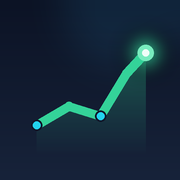
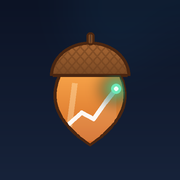
앱 아이콘 도토리+상승그래프 버전으로 리디자인
- 도토리 마스코트(크로스해치 깍정이·오렌지 그라디언트 견과·꼭지) 안에
  우상향 꺾은선 그래프 + 발광 상승 팁 결합
- 네이비 그라디언트 배경(풀블리드, maskable 대응)
- PNG 4종(512·192·180·32) PIL 생성 + icon.svg(라운드·도토리) 갱신
- 파비콘/매니페스트 캐시버스터 ?v=3, 쇼케이스 이미지 갱신

Changed region(s): [[0.1667, 0.1667, 0.9167, 0.8056]]

diff --git a/index.html b/index.html
@@ -10,10 +10,10 @@
     <meta name="apple-mobile-web-app-capable" content="yes">
     <meta name="apple-mobile-web-app-status-bar-style" content="black-translucent">
     <meta name="apple-mobile-web-app-title" content="UMT">
-    <link rel="manifest" href="manifest.webmanifest?v=2">
-    <link rel="apple-touch-icon" href="apple-touch-icon.png?v=2">
-    <link rel="icon" type="image/png" sizes="32x32" href="favicon-32.png?v=2">
-    <link rel="icon" type="image/svg+xml" href="icon.svg?v=2">
+    <link rel="manifest" href="manifest.webmanifest?v=3">
+    <link rel="apple-touch-icon" href="apple-touch-icon.png?v=3">
+    <link rel="icon" type="image/png" sizes="32x32" href="favicon-32.png?v=3">
+    <link rel="icon" type="image/svg+xml" href="icon.svg?v=3">
     <script src="https://cdn.tailwindcss.com"></script>
     <script src="https://cdn.jsdelivr.net/npm/chart.js"></script>
     <link href="https://cdnjs.cloudflare.com/ajax/libs/font-awesome/6.4.0/css/all.min.css" rel="stylesheet">
